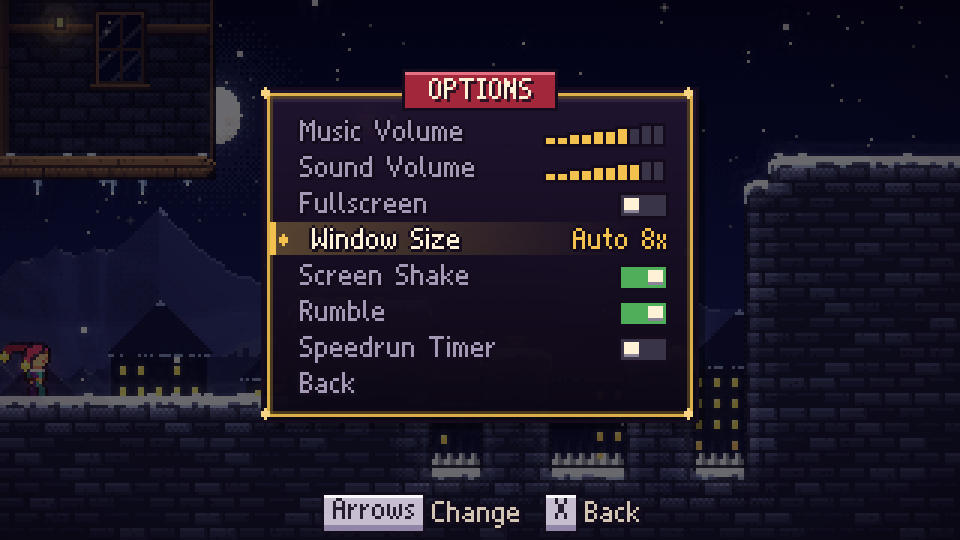
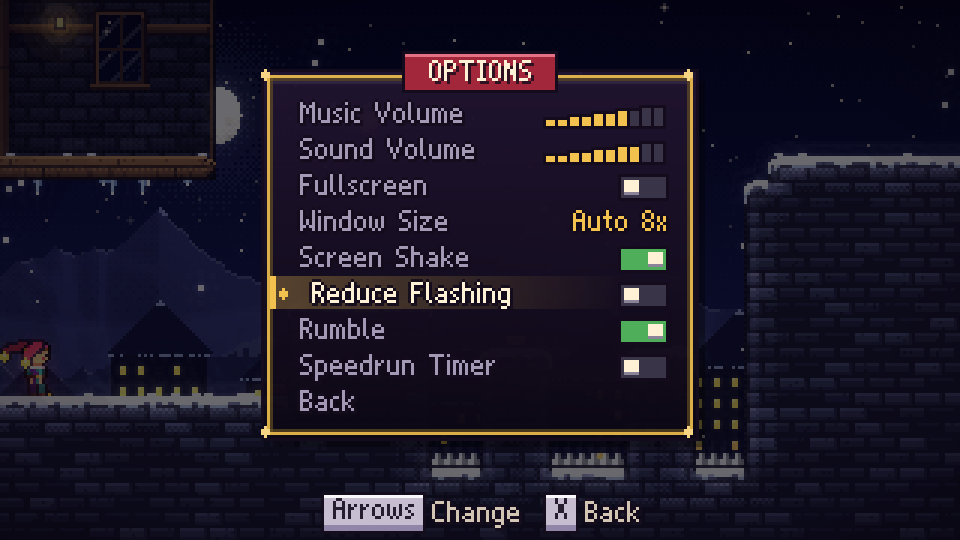
Accessibility: Reduce Flashing option
One toggle (title and pause options) scales every full-screen white flash
(bells, deaths, chapter end, cutscene !flash), the mask-block swap flash,
the chapter-select card flash and the dash chromatic shimmer to 20%.
Measured on 1-02: a bell-strength flash lifts mean frame luminance by 0.49
at full strength and by 0.09 when reduced. ui_flow toggles the option.

Changed region(s): [[0.25, 0.0889, 0.75, 0.8296], [0.0, 0.6222, 0.0625, 0.7111], [0.0, 0.3259, 0.0312, 0.3556]]

diff --git a/README.md b/README.md
@@ -63,6 +63,7 @@ is always one menu away.
 - **Hold grab** against a wall to cling and climb. Climbing drains stamina, which refills on the ground.
 - **Dash** once in the air in any of eight directions. Mira's cap shows when the dash is ready (red), spent (blue) or doubled (pink). Landing recharges it.
 - **Options → Controls** rebinds every key, swapping on conflicts. On-screen prompts follow whichever device you used last, and name pad buttons the way your controller does (A / Cross / B for jump on Xbox, PlayStation and Nintendo pads).
+- **Options → Reduce Flashing** dims full-screen flashes (bells, deaths, cutscenes, mask swaps) and the dash shimmer to a fifth of their strength. **Screen Shake** can be turned off separately.
 - **Pause → Assist** offers slower game speed (50–100%), infinite stamina and invincibility. Your progress counts the same.
 
 ## Features
@@ -125,7 +126,7 @@ parallax backdrops, a glow pass, bloom and per-chapter colour grading.
 A title screen with a campfire and a juggling Mira. Chapter select shows living
 postcards rendered from each chapter's real opening room. Results screens show berries,
 deaths, time, bells and golden runs. Options cover volume, fullscreen, window size, screen shake,
-rumble, an optional speedrun timer and key rebinding. The game auto-pauses when the window loses focus,
+reduced flashing, rumble, an optional speedrun timer and key rebinding. The game auto-pauses when the window loses focus,
 and *Continue* returns you to the last room you entered.
 
 ## Content overview
